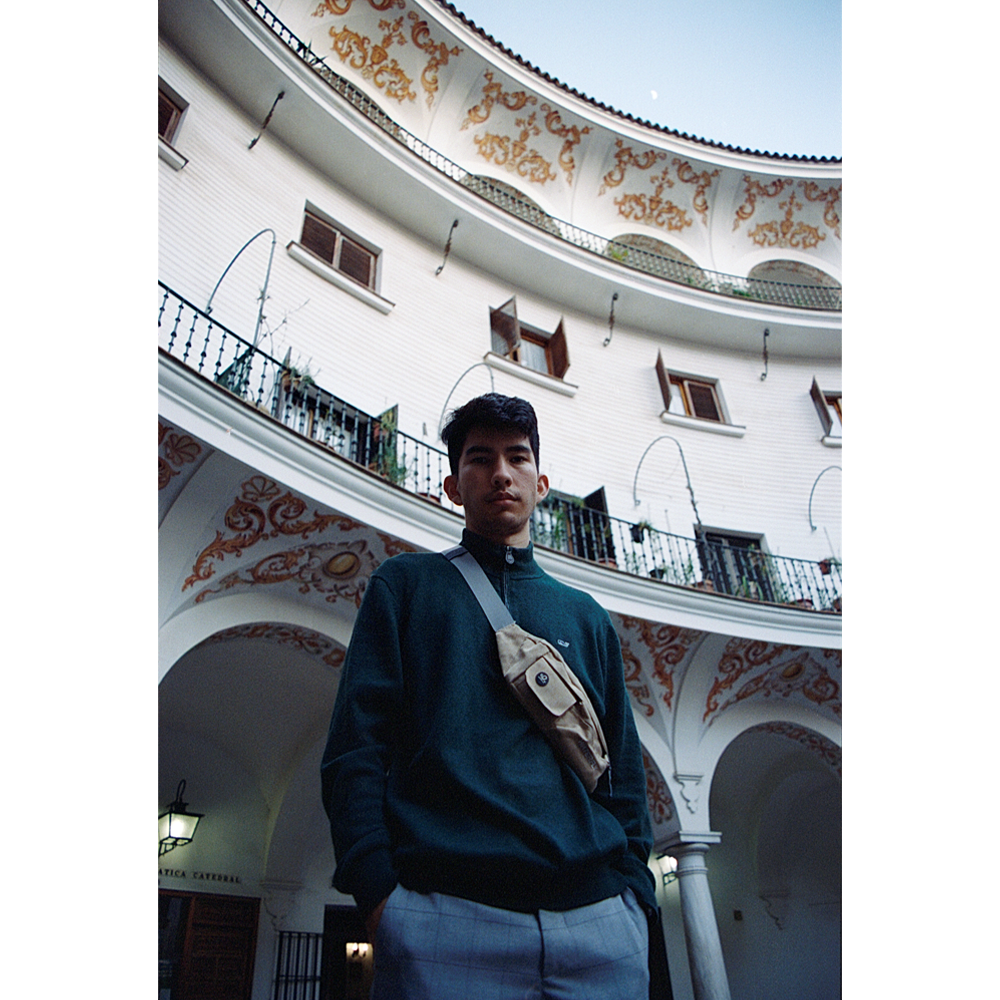
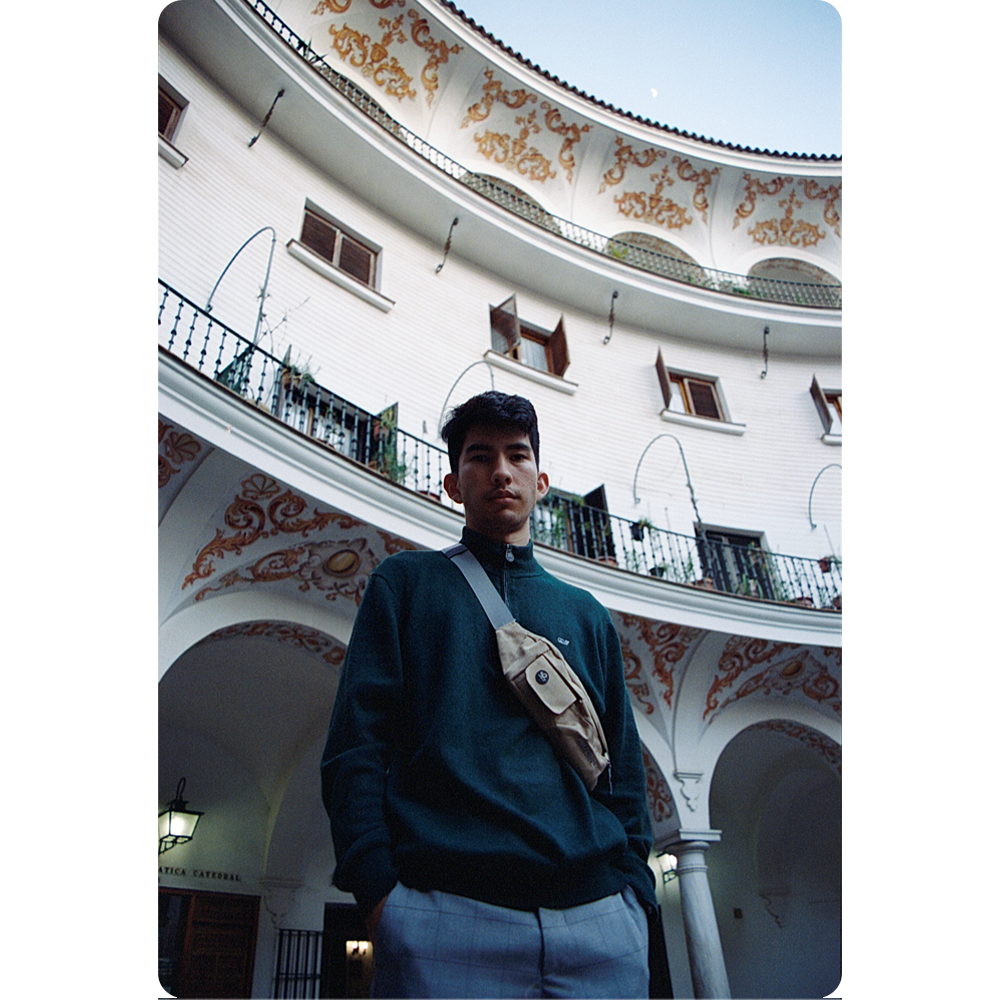
x

diff --git a/sleep.html b/sleep.html
@@ -1,0 +1,160 @@
+<!DOCTYPE html>
+
+<html lang="en">
+<head>
+	<title>Brainbender | Home</title>
+	<link href="main.css" rel="stylesheet">
+	<meta charset="utf-8">
+	<meta content="width=device-width, initial-scale=1.0" name="viewport">
+	<link href='favicon-32x32.png' rel='icon' type='image/png'>
+</head>
+
+<body class="content">
+	<div id="wrapper">
+		<header>
+			<nav>
+				<h3><a href="index.html"><img height="20px" src="transparent-logo.png"> Brainbender</a>
+				</h3>
+
+
+				<ul>
+					<li>
+						<a href="index.html">Home</a>
+					</li>
+
+
+					<li>
+						<a href="articles_v2.html" id="active">Articles</a>
+					</li>
+
+
+					<li>
+						<a href="toolstips.html">Tools & Tips</a>
+					</li>
+
+
+					<li>
+						<a href="aboutcontact.html">About/Contact</a>
+					</li>
+				</ul>
+			</nav>
+		</header>
+
+
+		<main>
+			<div id="article_header">
+			
+				<div id="section_one_image">
+					<img src="sleep2.png">
+				</div>
+				
+			</div>
+
+
+			<div id="section_two">
+				<h2 style="text-align: center">The Importance of Sleep</h2>
+
+				<p style="text-align: left; color: #636363" class="article_body_text">If you'd like to watch me say everything in this article, <a href="https://youtu.be/zSdFDeOuVn0" style="color: #2a57ff;" class="div_hover" target="_blank">click here.</a></p>
+
+				<p style="text-align: left" class="article_body_text">What if I told you that a new and revolutionary drug could do incredible things like: improve your memory, 
+				help you learn better, decrease your risk of disease, help you lose weight, and improve your quality of life overall? Undoubtedly, I’d have your interest, right? <br><br>
+				
+				Sleep is tragically one of the most important aspects of our lives that we regularly deprive ourselves of. How often do you skip a meal for the sake of getting work done, 
+				or to spend a little more time on Netflix or YouTube? My guess is never, and yet we never hesitate to sleep two hours less to make sure we get our paper done by 2 am. <br><br>
+				We spend hours cooking and preparing meals for ourselves to enjoy and yet we can’t spend a single hour away from our phones before bed to make sure we enjoy sleep. 
+				Our society has been founded upon the principle of an everlasting hunger for success, one that glosses over the little things that make life meaningful and one that won’t wait for you to get your full night’s sleep. 
+				While you’re getting your beauty sleep, someone else is up at 4 am grinding away, so why don’t you get up and go after it? But what’s the impact of such a way of living? Is it really the best way to live? <br><br>
+
+				What we know for a fact is this: consistently poor sleep leads to a shorter life and drastically reduces the quality of that shorter life. Sleeping less than six or seven hours a night more than doubles your risk of cancer, 
+				greatly increases your chance of gaining weight, and increases your risk of heart disease. For the time you are awake, you experience a decrease in motor function performance, your hormones are not being released properly, 
+				and your capacity to remember and learn new things is reduced. <br><br> Maybe you’re not worried about sleeping well now because you have more important things to do and you’ll sleep more later in life; well, 
+				“insufficient sleep is a key lifestyle factor determining whether or not you will develop Alzheimer’s disease” - Matthew Walker, “Why We Sleep”. Every hour, a person in the United States, unfortunately, dies in a traffic accident caused by fatigue-related error. 
+				The list of damaging side effects from a lack of proper sleep is terrifyingly long and we have still so much more to discover, which begs the question: why don’t we sleep better? <br><br>
+				
+				It’s a simple question with a complicated answer. It starts with our basic instinctual desire to get more done throughout the day. 
+				Even when we are wasting time, by bingeing Netflix at 3 am, the caveman or cavewoman part of our brain thinks that there is something helpful or useful happening, otherwise, you wouldn’t be doing it. <br><br>
+				We give ourselves a bigger plate than we can handle and end up with the dilemma of finding time where there is none. The solution that we have culturally deemed not only acceptable but often times admirable is to cut sleep short. 
+				We have no problem with cutting off two hours of our recommended eight because you still get 75% of a full night’s sleep, right? Well, our sleep cycle is a nuanced system that has two modes of sleep: REM and nREM, where both are equally valuable. <br><br>
+				We get lots of nREM sleep during the beginning of the night and it shifts toward being more REM heavy throughout our sleep cycle. So, cutting off two hours doesn’t cut 25% off, it cuts 60-90 percent of all your REM sleep, 
+				which is the time when you dream and your brain consolidates the memories of the previous day. Having trouble remembering your dreams? Maybe, now you know why. <br><br>
+				
+				After we wake up from our catfish of a sleep, we are unsurprisingly tired and lack the ability to function at a normal level, so what do we do? Go back to sleep, right? 
+				Who am I kidding, you brew a cup of coffee or head to Starbucks to get your daily fill of caffeine, the most widely used stimulant in the world. When consumed after 12pm for most people, 
+				caffeine delays sleep onset and is typically misinterpreted as insomnia, inviting another set of drugs used to help bring on sleep. You trudge through the rest of your day hopped up on a 
+				false sense of alertness and the cycle repeats itself yet again. <br><br>
+				
+				So, what can you do to end this cycle and get your nightly fill of quality sleep?</p>
+				
+				<ol class="article_body_text">
+					<li>Stick to a schedule. Be in bed at the same time every night as regularly as you can, giving yourself enough time to fall asleep in the first 
+					place (around 15-30 minutes) and then enough time to stay asleep (7-9 hours). You’ll find that as you become more regular, you might wake up at 
+					the time you need to automatically without the need for an alarm.</li>
+					
+					<li>Avoid blue light as much as you can for the hour before bed and do activities that relax you. Read a book or listen to some music. 
+					Don’t make it too interesting though, you might end up not wanting to sleep.</li>
+					
+					<li>Try to avoid laying down throughout the day or using your bed for anything but sleeping. I find that by the end of the night, 
+					I’m dying to be able to just relax on my bed and it’s like a nice reward for getting my work done throughout the day.</li>
+					
+					<li>Don’t exercise after 4 hours before your bedtime and don’t eat or drink after 3 hours before. 
+					Exercising delays sleep, eating increases your blood sugar and engages your metabolism, and water might cause you to pee throughout the night.</li>
+					
+					<li>Don’t drink coffee after 12 pm and if you can, try to stay away from it in general. Caffeine is, in fact, a drug and it has its own set of withdrawal symptoms like headache, 
+					fatigue, anxiety, among others. Instead, drink a glass of water after you wake up and do something active, like going for a walk or doing some stretches. </li>
+
+					<li>Naps are healthy for you and are a part of your natural sleep rhythm. Studies have found that nappers have a better capacity to learn and remember because they 
+					offload temporary memory to long term memory during the nap. Take a 15-45 minute nap before 3 pm and see how you feel. </li>
+					
+					<li>Don’t be afraid to try new things. Maybe you normally sleep at 1 am but you fall asleep the best at 9 pm. You’ll never know until you try! 
+					Experiment with different routines and times until you find the one that works best for you and don’t be afraid to try things that seem “out of character” for you.</li>
+				</ol>
+
+				
+
+
+			</div>
+		</main>
+				
+		
+
+		<footer>
+			<img id="divider_img" src="transparent-logo.png">
+			
+			
+			<div class="footer_div">
+				
+				<section id="footer_sections">
+					<p>Contact me at:<br>
+					<a href="mailto:srahimi8@asu.edu">srahimi8@asu.edu</a></p>
+				</section>
+
+				<section id="footer_sections_nav">
+					<ul>
+						<li>
+							<a href="index.html">Home</a>
+						</li>
+
+
+						<li>
+							<a href="articles_v2.html" id="active">Articles</a>
+						</li>
+
+
+						<li>
+							<a href="toolstips.html">Tools & Tips</a>
+						</li>
+
+
+						<li>
+							<a href="aboutcontact.html">About/Contact</a>
+						</li>
+					</ul>
+				</section>
+			</div>
+			<br>
+			Copyright &copy; 2020 Shujauddin Rahimi<br>
+			<a href="mailto:srahimi8@asu.edu">srahimi8@asu.edu</a>
+		</footer>
+	</div>
+</body>
+</html>

diff --git a/articles_v2.html b/articles_v2.html
@@ -62,16 +62,18 @@
 				<div id="article_section">
 					<div>
 						<a href="sleep.html">
-							<div class="article_thumb" style="background-image: url(sleep.png);">
+							<div class="article_thumb" style="background-image: url(sleep2.png);">
 							</div>
 						</a>
 					</div>
 					
 					<div class="article_text">
+					<div class="div_hover">
 					<a href="sleep.html">
 						<h2 class="link">Sleep</h2>
 						<p>One of the most important factors in life, sleep has an immense impact on the quality of our ability to learn.</p>
 					</a>
+					</div>
 					</div>
 					
 					<div class="article_icon">
@@ -82,10 +84,12 @@
 					</div>
 					
 					<div class="article_text">
+					<div class="div_hover">
 						<a href="environment.html">
 							<h2 class="link">Environment</h2>
 							<p>The physical spaces that we exist in have a far greater influence than we might think.</p>
 						</a>
+					</div>
 					</div>
 					
 					<div class="article_icon">
@@ -96,10 +100,12 @@
 					</div>
 					
 					<div class="article_text">
+					<div class="div_hover">
 						<a href="notes.html">
 							<h2 class="link">Notes</h2>
 							<p>How to organize thoughts and notes into an understandable format and move away from a jumbled mess.</p>
 						</a>
+						</div>
 					</div>
 					 
 					 <div class="article_icon">
@@ -110,10 +116,12 @@
 					</div>
 					
 					<div class="article_text">
+					<div class="div_hover">
 						<a href="distractions.html">
 							<h2 class="link">Distractions</h2>
 							<p>It sucks to have your attention pulled away right when you're about to get down to work. Here are some ways to avoid that.</p>
 						</a>
+						</div>
 					</div>
 					
 					<div class="article_icon"> 
@@ -124,10 +132,12 @@
 					</div>
 					
 					<div class="article_text">
+					<div class="div_hover">
 						<a href="identity.html">
 							<h2 class="link">Identity</h2>
 							<p>We all have aspirations of who we want to be but without actual change, we'll never become those people.</p>
 						</a>
+						</div>
 					</div>
 				
 					<div class="article_icon">
@@ -138,10 +148,12 @@
 					</div>
 					
 					<div class="article_text">
+					<div class="div_hover">
 						<a href="1percent.html">
 							<h2 class="link">1% Rule</h2>
 							<p>Progress is incremental and the 1% Rule is a good way of achieving this.</p>
 						</a>
+						</div>
 					</div>
 				</div>
 			</div>

diff --git a/main.css b/main.css
@@ -1,5 +1,5 @@
 html {
-
+	margin-left: calc(100vw - 100%);
 }
 
 body {
@@ -41,8 +41,8 @@ a:visited {
 	color: #000000;
 }
 
-a:hover {
-	/*color: #ABABAB;*/
+nav a:hover {
+	color: #ABABAB;
 }
 
 h1 {
@@ -112,6 +112,15 @@ input[type="submit"] {
     margin-right: auto;
 }
 
+ol li {
+	font-size: 21px;
+	padding: 10px 0 10px 0;
+}
+
+ol {
+	padding-left: 0px;
+}
+
 #section_one {
 	display: grid;
 	grid-template-rows: auto;
@@ -148,6 +157,11 @@ input[type="submit"] {
 	margin-right: auto;
 }
 
+#article_header {
+	display: flex;
+	align-items: center;
+}
+
 #tooltip_section {
 	display: inline-grid;
 	grid-template-columns: 850px;
@@ -181,6 +195,13 @@ input[type="submit"] {
 	flex-direction: row;
 	justify-content: center;
 	align-items: center;
+}
+
+.article_body_text {
+	width: 700px;
+	min-width: 270px;
+	margin-left: auto;
+	margin-right: auto;
 }
 
 #footer_sections,
@@ -287,7 +308,6 @@ input[type="submit"] {
 	opacity: 0.6;
 }
 
-
 footer {
 	width: 1280px;
 	font-size: 75%;
@@ -369,6 +389,7 @@ footer {
 		justify-content: center;
 		padding-left: 100px;
 		padding-right: 100px;
+		word-wrap: break-word;
 	}
 	
 	#section_one {
@@ -439,6 +460,11 @@ footer {
 	
 	.article_text {
 		padding: 0px;
+	}
+	
+	.article_body_text {
+		width: 550px;
+		word-wrap: break-word;
 	}
 	
 	#section_two .article_text h2, #section_two .article_text p {
@@ -599,6 +625,17 @@ footer {
 	input[type="submit"] {
 		grid-column: 2 / 3;
 		width: 9em;
+	}
+	
+	ol li {
+		font-size: 13px;
+	}
+	
+	.article_body_text {
+		width: 80%;
+		min-width: 270px;
+		font-size: 13px;
+		
 	}
 }
 

diff --git a/index.html b/index.html
@@ -73,10 +73,12 @@
 					</div>
 					
 					<div class="article_text">
+					<div class="div_hover">
 					<a href="sleep.html">
-						<h2>Sleep</h2>
+						<h2 class="link">Sleep</h2>
 						<p>One of the most important factors in life, sleep has an immense impact on the quality of our ability to learn.</p>
 					</a>
+					</div>
 					</div>
 					
 					<div class="article_icon">
@@ -87,10 +89,12 @@
 					</div>
 					
 					<div class="article_text">
+					<div class="div_hover">
 						<a href="environment.html">
-							<h2>Environment</h2>
+							<h2 class="link">Environment</h2>
 							<p>The physical spaces that we exist in have a far greater influence than we might think.</p>
 						</a>
+					</div>
 					</div>
 				
 					<div class="article_icon">
@@ -101,10 +105,12 @@
 					</div>
 					
 					<div class="article_text">
+					<div class="div_hover">
 						<a href="1percent.html">
-							<h2>1% Rule</h2>
+							<h2 class="link">1% Rule</h2>
 							<p>Progress is incremental and the 1% Rule is a good way of achieving this.</p>
 						</a>
+					</div>
 					</div>
 				</div>
 			</div>
